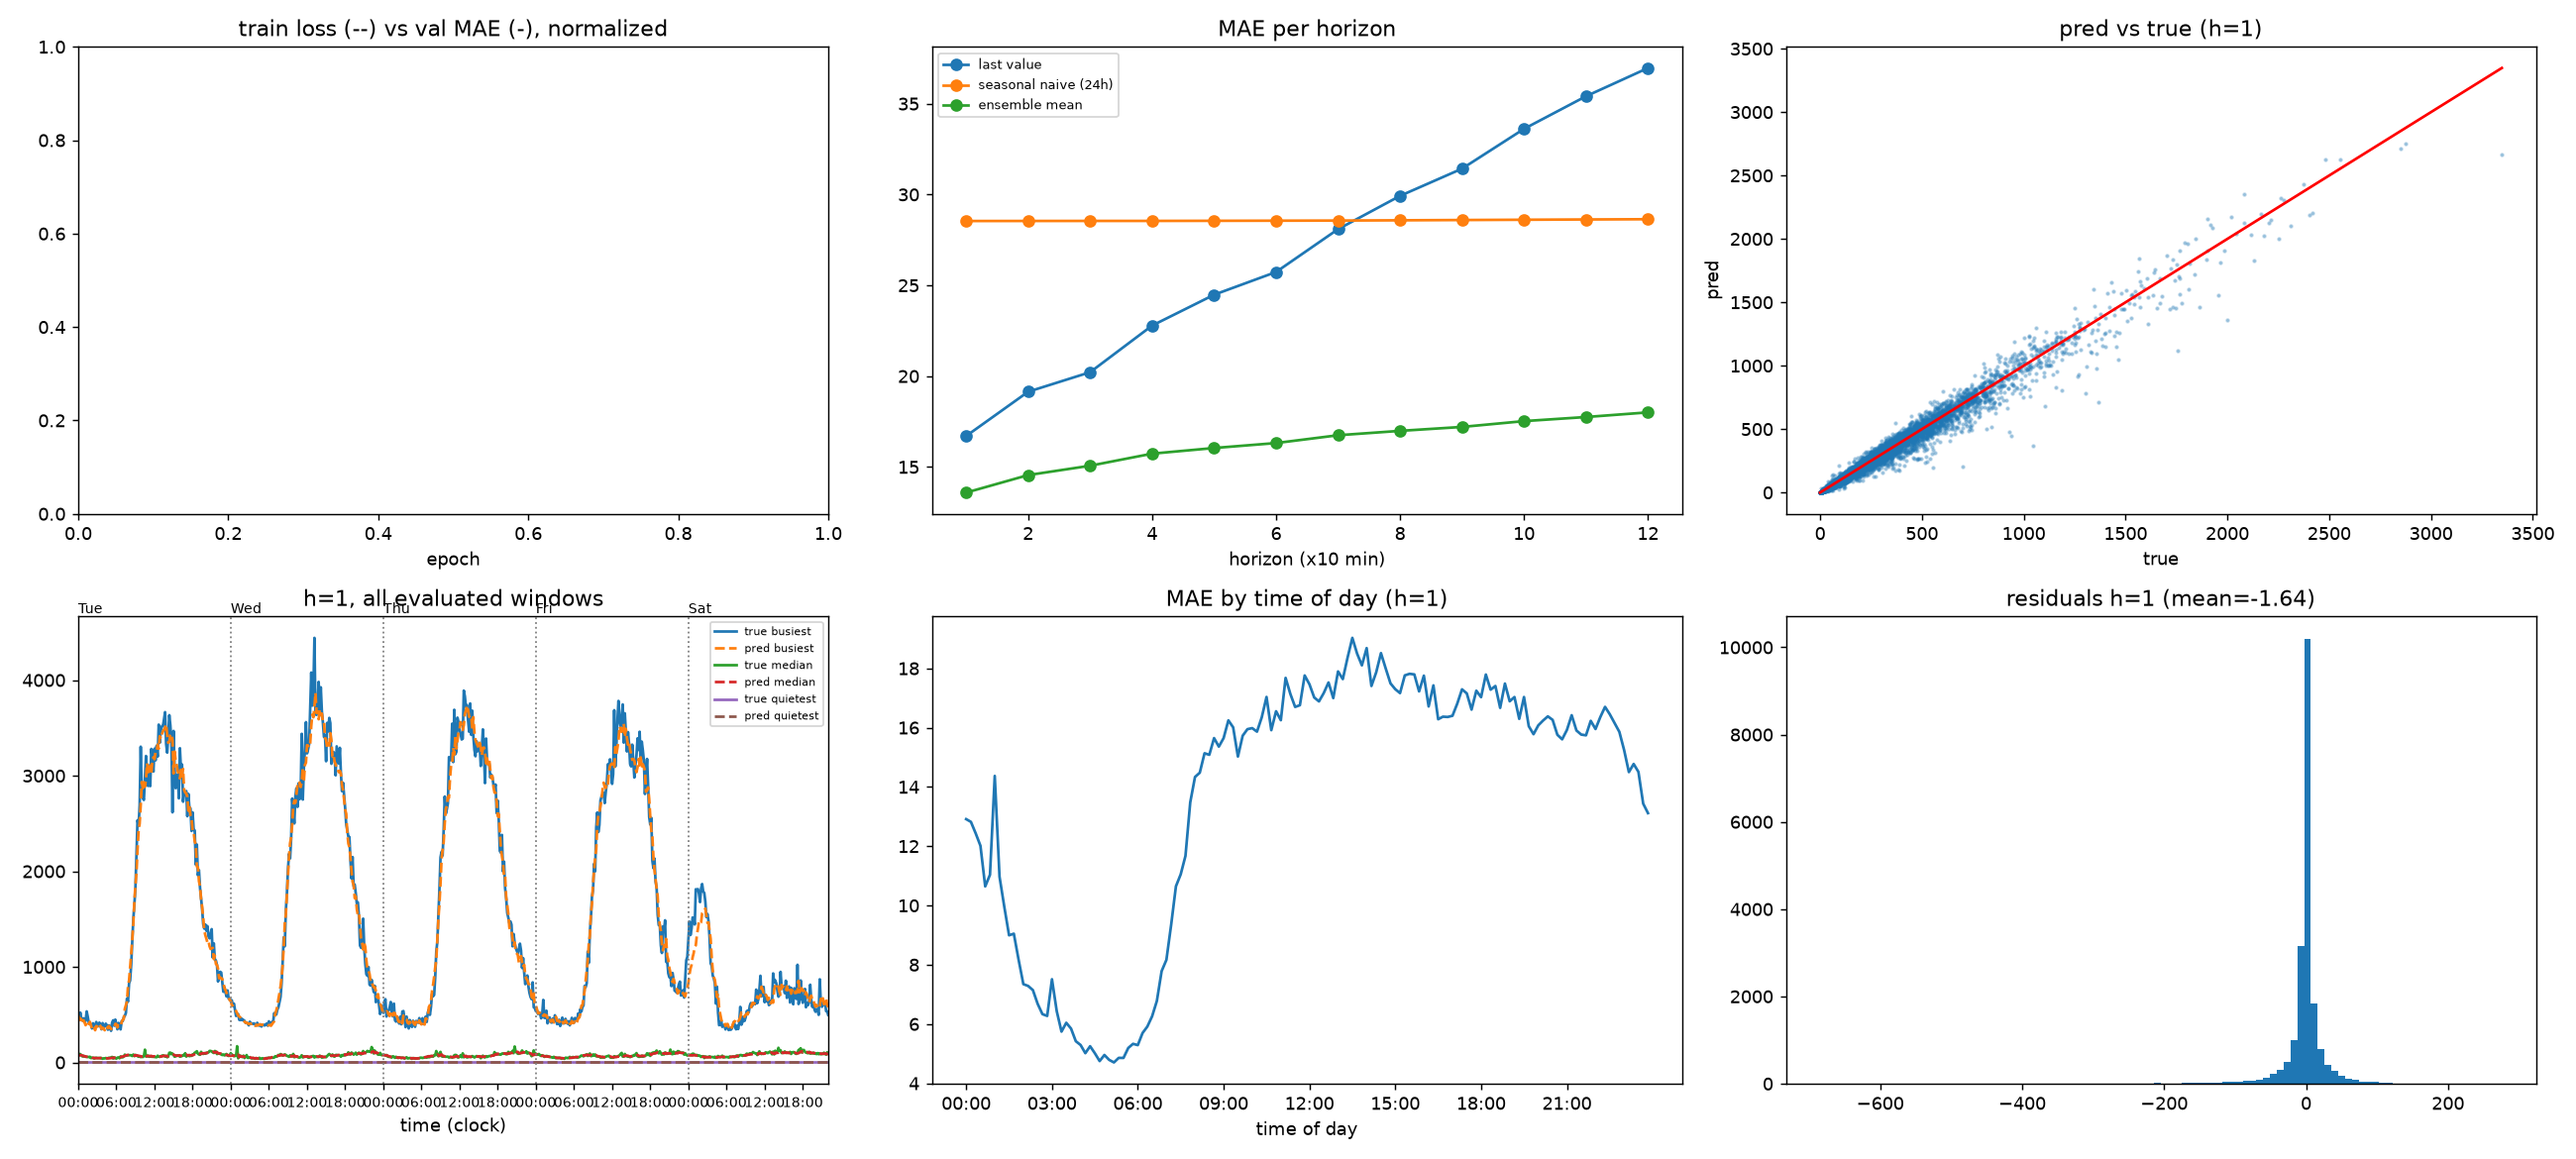
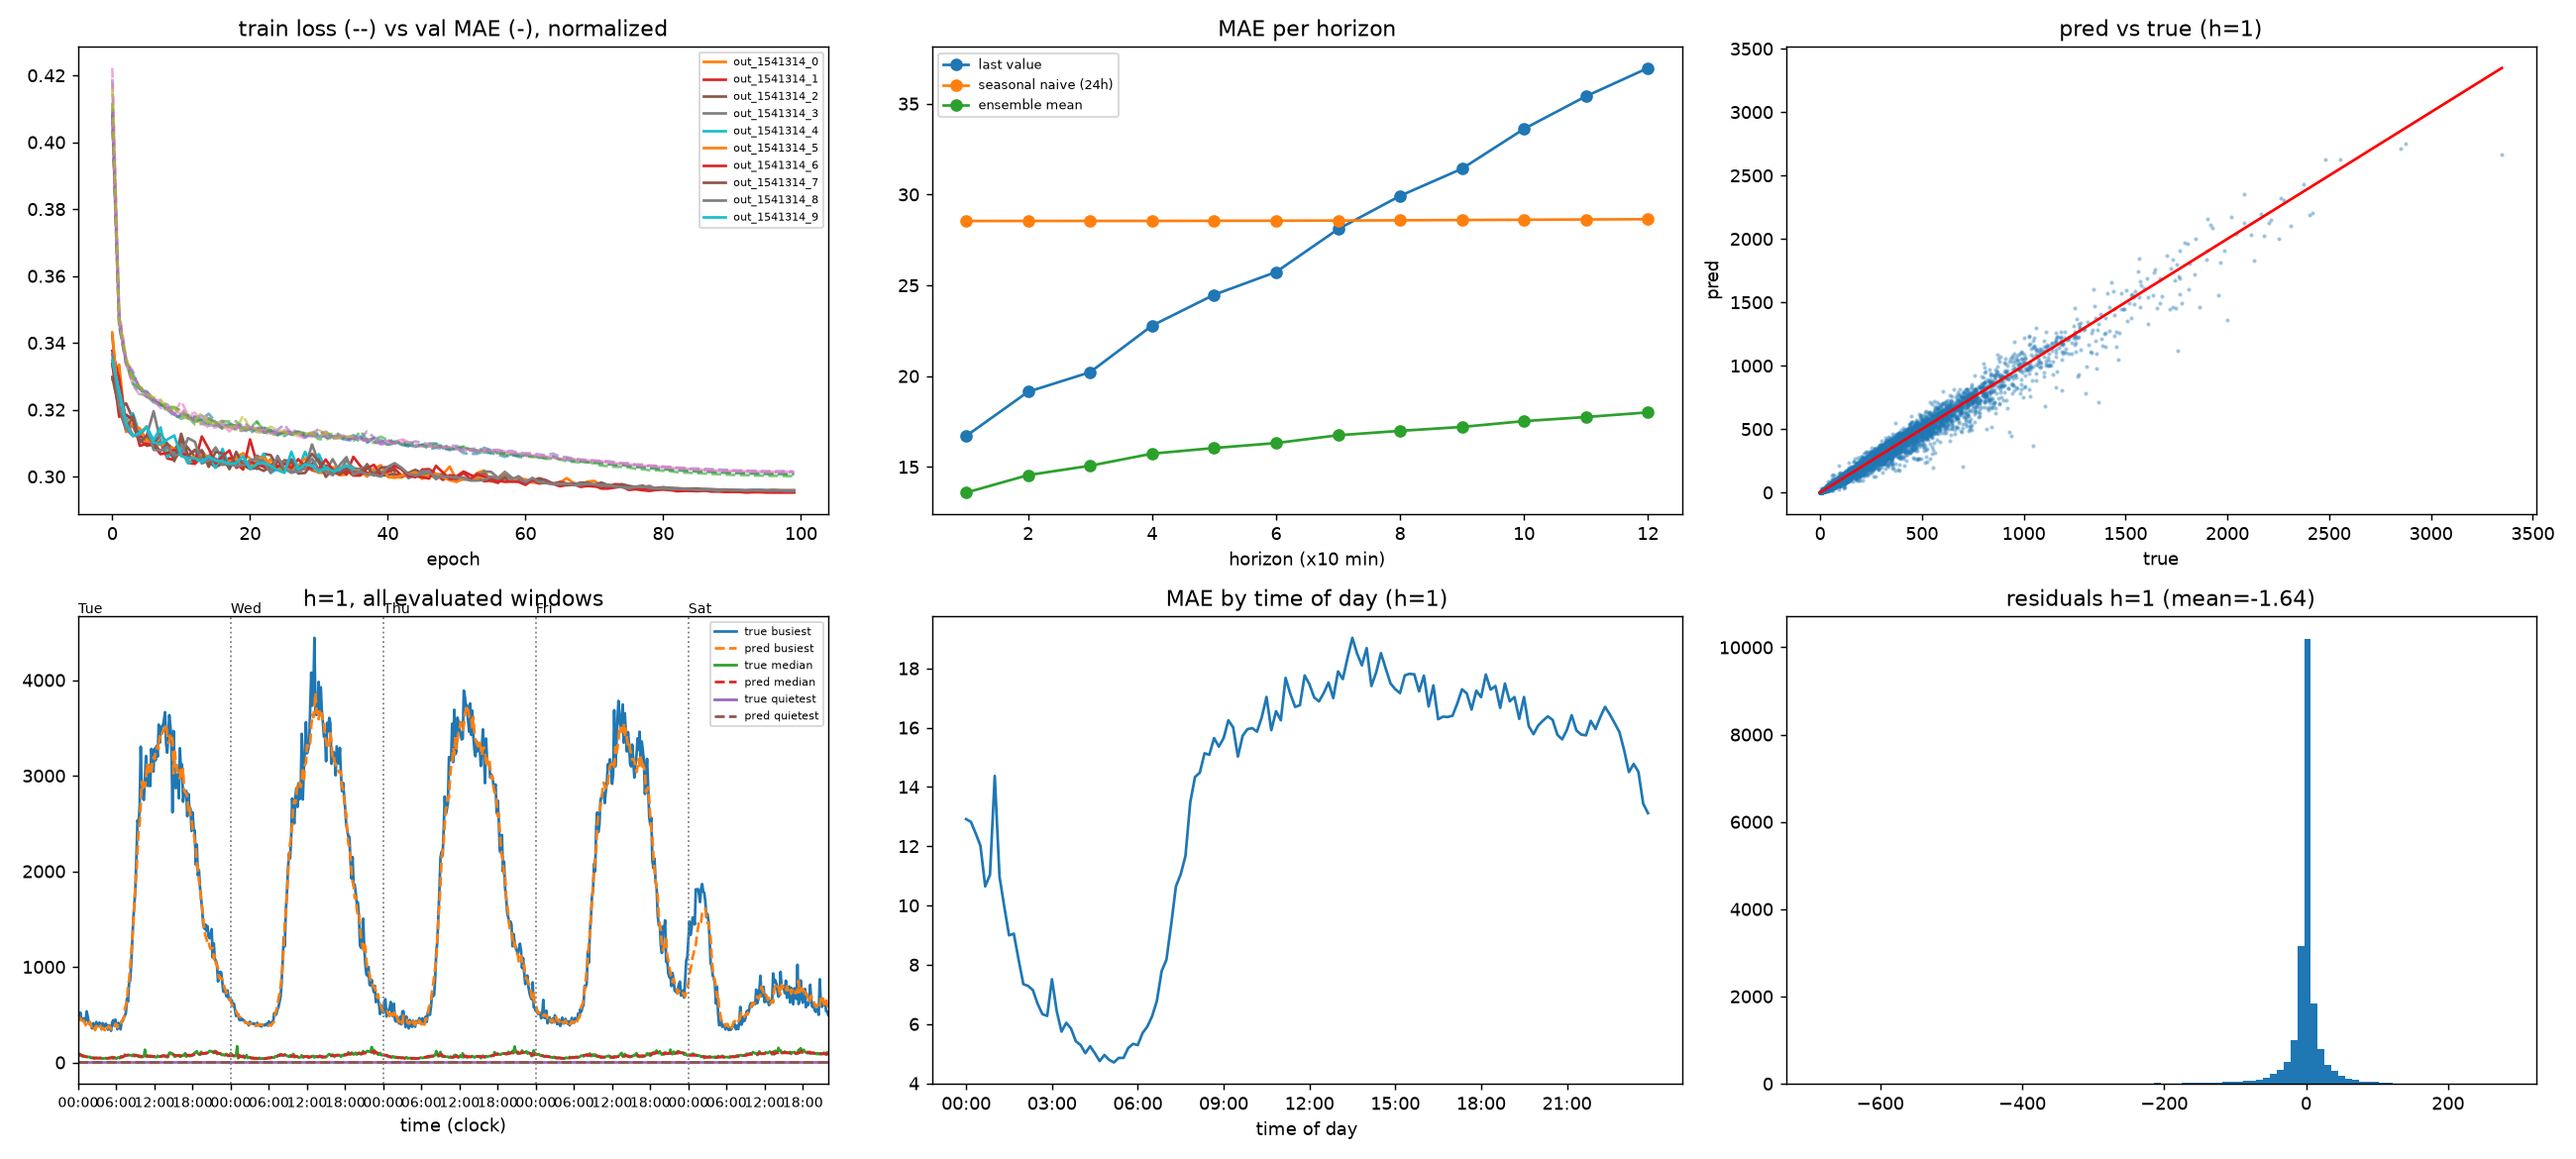
Update

Changed region(s): [[0.0, 0.3077, 0.3115, 0.4308], [0.2804, 0.0308, 0.3115, 0.2154], [0.0, 0.2769, 0.0312, 0.3077]]

diff --git a/results/RESULTS_ANALYSIS.md b/results/RESULTS_ANALYSIS.md
@@ -1,134 +1,121 @@
-# Results analysis
-
+# Results analysis (run of 14 Nov 2026)
+ 
 What the numbers printed by `analyse_result.py`, `plot_signed_error.py` and `conformal_eval.py` show, and what they do and do not prove.
-
+ 
 Setup: 10 STID seeds, 2500 cells, test = 709 windows (about 4.9 days: Tue, Wed, Thu, Fri, partial Sat), calibration = val split (also 709 windows). All values in original traffic units; mean traffic on the test is about 155 per cell and step.
 
----
-
+ ---
+ 
 ## 1. Is the pipeline consistent?
-
+ 
 | Check | Result | Reading |
 |---|---|---|
 | `max abs(targets - raw test)` | 0.0005 | The inverse z-score reproduces the raw data up to float32 rounding: the scaler is correct. |
 | Windows evaluated | 709 of 709 | The last-batch fix dropped nothing. |
 | Cells evaluated | 2500 of 2500 | No cell excluded. |
 | Normalized MAE recomputed vs BasicTS | identical for all seeds | Predictions and targets loaded by our scripts are the ones BasicTS evaluated. |
-
-Conclusion: the numbers below come from a consistent pipeline. The `no log files match: out_*.log` warning does not affect them.
-
+ 
+Conclusion: the numbers below come from a consistent pipeline.
+ 
 Calibration (val) vs evaluation (test) difficulty: the normalized MAE is about 0.296 on val against about 0.268 on test (about 10% higher). Val is therefore a harder split than test. This matters in section 5.
-
+ 
 ---
-
+ 
 ## 2. Forecast accuracy
-
+ 
 | Model | MAE | RMSE | WAPE |
 |---|---|---|---|
 | last value | 27.04 | 65.71 | 0.173 |
 | seasonal naive (24 h) | 28.61 | 73.49 | 0.183 |
 | seeds 0-9 | 16.30 - 16.76 | 38.59 - 40.06 | 0.105 - 0.107 |
 | ensemble mean | 16.32 | 38.84 | 0.105 |
-
+ 
 What it shows
 - STID beats the best naive baseline by about 40% in MAE (27.04 to 16.32), and the seasonal baseline by about 43%. The model learns something beyond persistence.
-- The seasonal naive is worse than last value: the traffic of the same hour the day before is a poorer guess than the last observation, at least on this short test where the day of the week changes (Tue to Sat, with Saturday about 22% lower).
+- The table is averaged over the 12 horizons (10 to 120 min). Per horizon (read from the "MAE per horizon" panel of `analysis.png`, approximate values): the ensemble goes from about 13.6 at 10 min to about 18.0 at 120 min; last value from about 16.7 to about 37; seasonal naive stays flat at about 28.5. The gain over last value is therefore about 19% at 10 min and about 51% at 120 min. Last value beats seasonal naive only up to about 70 min, which is why it looks better in the average.
 - Seeds are consistent (MAE spread about 2.8%), with two groups: seeds 4, 5, 7, 9 are slightly worse (16.63 - 16.76) than the rest (16.30 - 16.39).
 - The ensemble is about 1% better than the average member (average MAE of the seeds is 16.48) but **not better than the best seed** (seed 6: MAE 16.30, RMSE 38.59). Members differ only by initialization, so their errors are highly correlated and averaging gives little.
-
-What it does not show: which horizon the baseline and seed table refers to is decided by `analyse_result.py` (not reproduced here); the conformal results below are at fixed horizons.
-
+Known issue: the top-left panel of `analysis.png` (train loss vs val MAE) is empty, in the same run in which `analyse_result.py` printed `no log files match: out_*.log`. The training curves apparently come from those logs, so they are missing, not the results. The conformal results below are at fixed horizons (10 and 30 min).
+ 
 ---
-
+ 
 ## 3. Where does the point forecast err?
-
+ 
 From `plot_signed_error.py` (horizon 10 min, error = pred - true):
 - Mean over all cells: bias -1.95, MAE of the cell-averaged error 2.32. The model **under-estimates on average** by about 2 units (about 1 to 2% of mean traffic). The 2.32 is the error of the average over cells, not the per-cell MAE (about 16).
 - Largest mean error by time of day: -6.82 at 11:10 (all days), -7.87 at 01:00 (weekdays only).
 - These clock profiles are averages over only 4 to 5 days, so single points are noisy; read them as "under-estimation appears at some times of day", not as a stable pattern.
-
 Link with section 4: the point forecast is under the truth only 48% of the time (coverage 0.518), yet the mean error is negative. The error distribution is therefore skewed: typical errors are small and balanced, but the rare large positive deviations (spikes) are under-estimated and pull the mean down. This is why a symmetric margin is not enough.
-
+ 
 ---
-
+ 
 ## 4. Can the point forecast or the ensemble be used as an upper bound?
-
+ 
 Target coverage 90 / 95 / 99%, test set:
-
+ 
 | Method | h = 10 min | h = 30 min |
 |---|---|---|
 | point (no margin) | 0.518 | 0.520 |
 | gaussian ensemble (mean + z * std) | 0.566 / 0.578 / 0.601 | 0.575 / 0.590 / 0.616 |
-
+ 
 - The point forecast is above the truth about half of the time, as expected: using it as a bound violates QoS in almost half of the cases.
 - The Gaussian bound built on the ensemble spread is far from the target (57% when 90% is promised, 60% when 99% is promised). Its margin is tiny (1.6 to 2.9 units) because the seeds agree with each other.
 - The two-sided band mean +/- 1.645 std covers only 0.171 of the data (nominal 0.90). This is the clearest evidence: ensemble disagreement measures only the variability from initialization, not the real prediction uncertainty (noise, bursts), which all members miss in the same way.
-
 Spread is weakly informative:
 - Overall correlation between std and |error| is 0.375, but inside a predicted-level decile the Spearman correlation drops to 0.11 (10 min) and 0.15 (30 min). Most of the 0.375 comes from the level: busy cells have both larger spread and larger errors.
 - Only the extreme deciles retain some signal (about 0.24 to 0.30 for the lowest and highest).
-
 Conclusion: an uncalibrated bound is unsafe and the ensemble spread is not a reliable uncertainty measure. Calibration on held-out data is required.
-
+ 
 ---
-
+ 
 ## 5. Conformal upper bounds
-
+ 
 ### 5.1 Horizon 10 min
-
+ 
 | Method | cover 90% | margin | cover 95% | margin | cover 99% | margin |
 |---|---|---|---|---|---|---|
 | conformal global | 0.917 | 23.5 (15.1%) | 0.961 | 49.1 (31.5%) | 0.993 | 144.0 (92.6%) |
 | **conformal by level** | 0.918 | 27.5 (17.6%) | 0.963 | 41.6 (26.7%) | 0.993 | 85.6 (55.0%) |
 | conformal / spread | 0.915 | 32.6 (20.9%) | 0.961 | 52.0 (33.4%) | 0.993 | 116.6 (74.9%) |
 | conformal by level / spread | 0.914 | 34.7 (22.3%) | 0.960 | 54.0 (34.7%) | 0.993 | 114.9 (73.8%) |
-
+ 
 ### 5.2 Horizon 30 min
-
+ 
 | Method | cover 90% | margin | cover 95% | margin | cover 99% | margin |
 |---|---|---|---|---|---|---|
 | conformal global | 0.919 | 26.5 (17.0%) | 0.962 | 55.3 (35.5%) | 0.993 | 160.4 (103.0%) |
 | **conformal by level** | 0.919 | 30.8 (19.8%) | 0.962 | 46.9 (30.1%) | 0.994 | 96.0 (61.7%) |
 | conformal / spread | 0.917 | 36.6 (23.5%) | 0.962 | 58.9 (37.8%) | 0.993 | 132.2 (84.9%) |
 | conformal by level / spread | 0.917 | 38.0 (24.4%) | 0.962 | 59.4 (38.2%) | 0.993 | 126.1 (81.0%) |
-
+ 
 ### 5.3 What this shows
-
+ 
 1. **Calibration on val transfers to test.** Every conformal method reaches at least the target on test. It slightly over-covers (for example 0.918 vs 0.90, 0.963 vs 0.95, 0.993 vs 0.99). This is the safe direction and is consistent with val being the harder split (section 1): the calibration errors are a bit larger than the test errors.
-
 2. **The global margin hides a strong heterogeneity.** The overall coverage is right, but by predicted level it ranges from 0.666 to 0.999 at 90% (0.782 to 1.000 at 95%, 0.947 to 1.000 at 99%). A constant margin is far too large for low-traffic predictions (coverage about 100%) and too small for high ones. Presumably the undercovered group is the highest-level cells, which are also the most critical for QoS. The extremes (min/max) are read from the table; the script does not say which decile is which.
-
 3. **Level-conditional calibration fixes it.** `conformal by level` brings the level coverage to 0.905 - 0.924 (90%), 0.956 - 0.965 (95%) and 0.992 - 0.995 (99%), and also keeps the clock-block range (0.906 - 0.941 at 90%) and day range (0.912 - 0.926) narrow.
-
 4. **It is also the cheapest among the uniform methods.** At 95% and 99% it has a smaller margin than the global one (41.6 vs 49.1; 85.6 vs 144.0 at 10 min), because it does not waste margin on low-traffic cells. At 90% the global margin is smaller (23.5 vs 27.5), but only at the price of the 0.67 coverage in the top level.
-
 5. **Dividing by the ensemble spread does not help.** Margins are larger (for example 52.0 and 54.0 vs 41.6 at 95%, 10 min) and uniformity is not better: the clock-block range gets wider (0.883 - 0.965 vs 0.906 - 0.941 at 90%). This is what section 4 predicted: spread carries little information beyond the level.
-
 6. **The price of safety grows fast with the target.** At 10 min the margin is 17.6% of mean traffic at 90%, 26.7% at 95% and 55.0% at 99%. At 30 min it is 19.8%, 30.1% and 61.7%. Going from 95% to 99% roughly doubles the margin: the error distribution has a heavy tail. The dependence on horizon is mild (about 10% more margin from 10 to 30 min).
-
 7. **Per-day coverage is uniform, including Saturday.** At 95%, 10 min: Tue 0.960, Wed 0.957, Thu 0.965, Fri 0.969, Sat 0.963. Saturday has about 22% less traffic (129 vs 166 on Tue) and lower MAE (11.9 vs 14.2 to 15.1) and keeps the coverage. Per-day numbers at 30 min are equivalent (0.957 - 0.969).
-
 ---
-
+ 
 ## 6. What this does and does not prove
-
+ 
 Supported
 - The ensemble is clearly better than naive forecasts, and the pipeline is internally consistent.
 - Neither the point forecast nor the ensemble spread gives a valid upper bound; a calibrated margin is necessary.
 - With level-conditional conformal calibration on a held-out split, the empirical coverage on the test matches the target, uniformly across levels, hours of the day and days.
 - The cost of the bound is quantified: about 18% to 20% extra over the prediction for 90%, 27% to 30% for 95%, 55% to 62% for 99%.
-
 Not supported (limits)
 - **Short test.** Only about 5 days, one partial weekend day, no holidays or events. Coverage on rare or anomalous days is not tested; the synthetic days (`make_synthetic_days.py`) are the planned tool and have not been rerun after the dataset refresh.
 - **Dependence.** Neighbouring windows and cells are strongly correlated, so the effective sample size is much smaller than the 709 x 2500 values; the finite-sample conformal guarantee assumes exchangeability, which does not hold exactly for time series. The 99% results in particular rely on few independent tail events.
 - **Marginal, not per-cell.** Coverage is computed over all cells and windows together (with checks per level, hour and day). Coverage of an individual cell was not examined.
 - **Distribution shift.** Here val is harder than test, which favours safety. If the shift went the other way (test harder than val), coverage would fall below target.
 - **No energy metric yet.** The margin is a proxy for energy saved; the actual sleep-mode decision rule (threshold on the bound) was not simulated.
-
 ---
-
+ 
 ## 7. Suggested next steps
-
+ 
 1. Rerun the synthetic days (`burst`, `noisy`, `flat`, `shift`) on the new checkpoints and compare per-day coverage against the table of section 5.
 2. Look at coverage per cell (or per group of cells) to check that no group is systematically under-covered.
 3. Simulate the sleep-mode rule with the `conformal by level` bound to turn the margin into an energy-versus-violation curve.
